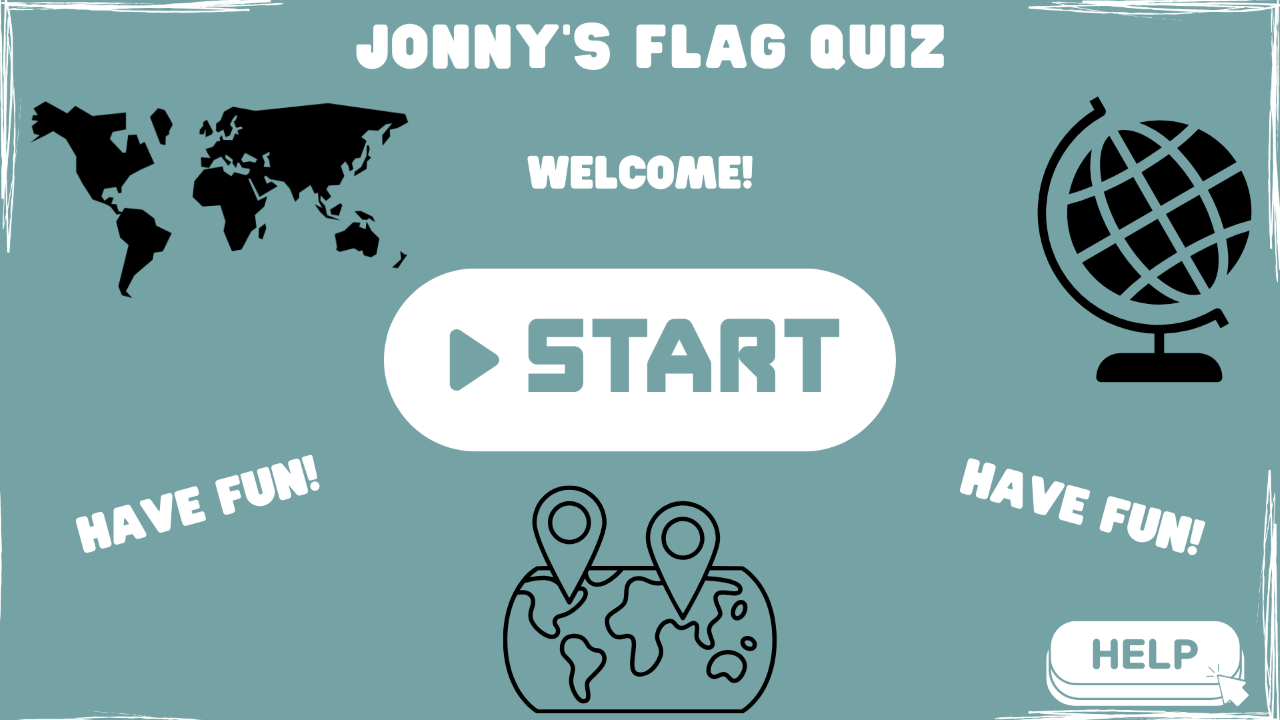
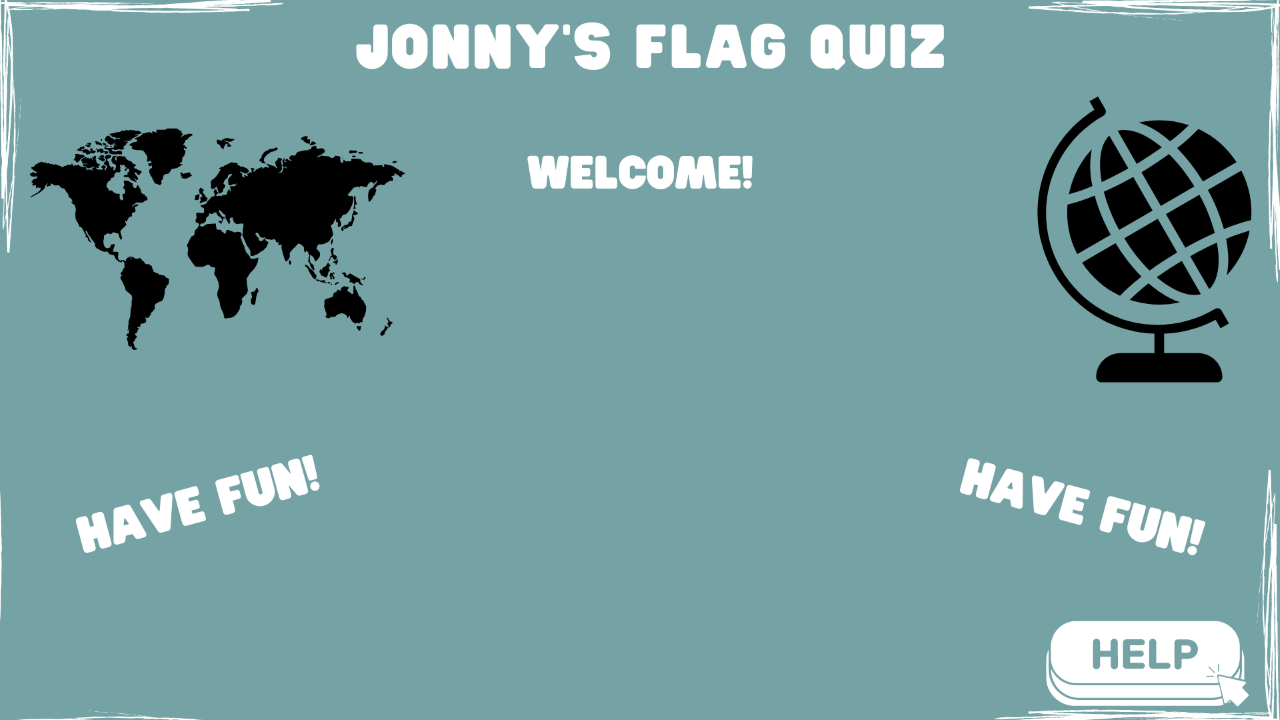
Added name entering option

Changed region(s): [[0.0, 0.1222, 0.7188, 0.6417], [0.375, 0.6722, 0.625, 1.0]]

diff --git a/main.py b/main.py
@@ -28,8 +28,15 @@ def show_homepage():
     #SHow Homepage image
     canvas1.create_image(0, 0, image=homepage_bg, anchor="nw")
 
+    # Entry box for name
+    name_label = Label(root, text="Enter your name:", font=("Georgia", 20), bg="white")
+    name_entry = Entry(root, font=("Georgia", 20))
+
+    name_label.place(x=520, y=310)
+    name_entry.place(x=470, y=360)
+
     #buttons
-    button1 = Button(root, text="Start", borderwidth=0, command=open_question1_window)
+    button1 = Button(root, text="Start", borderwidth=0, highlightthickness=0, command=open_question1_window)
     button2 = Button(root, text="Help", command=open_help_window)
 
     #Display buttons on window
@@ -37,7 +44,7 @@ def show_homepage():
     button2_canvas = canvas1.create_window(100, 10, anchor="nw", window=button2)
 
     # Place buttons
-    button1.place(x=430, y=310)
+    button1.place(x=430, y=450)
     button2.place(x=1030, y=596)
 
     #BUTTON size and font etc...
